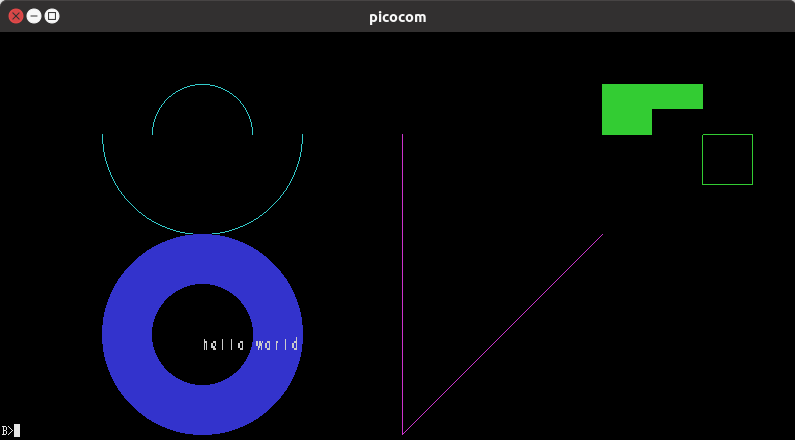
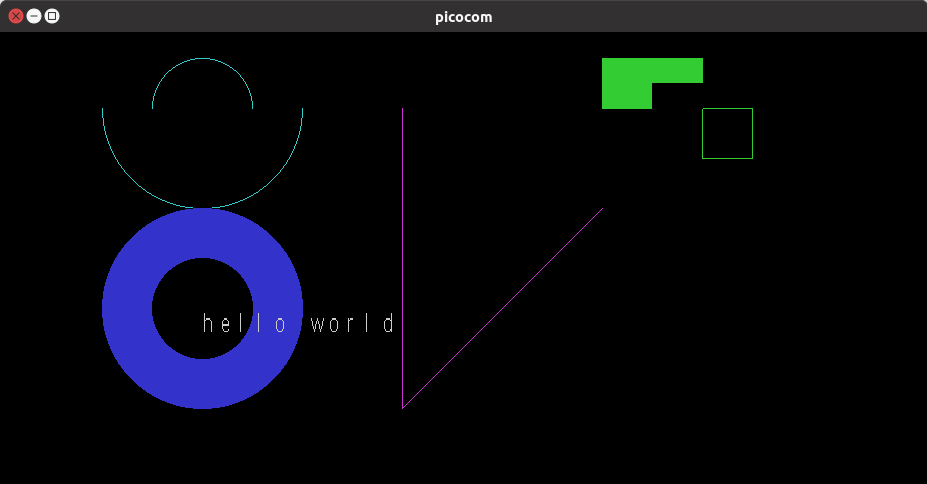
regis - increase demo text font size

diff --git a/regis/demo/regis_demo.c b/regis/demo/regis_demo.c
@@ -17,7 +17,7 @@
 // zcc +rc2014 -subtype=cpm -clib=new -v -m -O2 --list -llib/rc2014/regis regis_demo.c -o regis -create-app
 
 // Expected output (where ^ is ESC character).
-// ^P1pS(E)W(I(M))P[600,200]V[][-200,+200]V[][400,100]W(I(G))P[700,100]V(B)[+050,][,+050][-050,](E)V(W(S1))(B)[-100,][,-050][+100,](E)V(W(S1,E))(B)[-050,][,-025][+050,](E)W(I(C))P[200,100]C(A-180)[+100]C(A+180)[+050]W(I(B))P[200,300]C(W(S1))[+100]C(W(S1,E))[+050]W(I(W))T(S01)"hello world"^\
+// ^P1pS(E)W(I(M))P[600,200]V[][-200,+200]V[][400,100]W(I(G))P[700,100]V(B)[+050,][,+050][-050,](E)V(W(S1))(B)[-100,][,-050][+100,](E)V(W(S1,E))(B)[-050,][,-025][+050,](E)W(I(C))P[200,100]C(A-180)[+100]C(A+180)[+050]W(I(B))P[200,300]C(W(S1))[+100]C(W(S1,E))[+050]W(I(W))T(S02)"hello world"^\
 
 
 window_t mywindow;
@@ -54,7 +54,7 @@ int main(void)
 
     draw_intensity( &mywindow, W);
 
-    draw_text( &mywindow, "hello world", 1);
+    draw_text( &mywindow, "hello world", 2);
 
     window_write( &mywindow );
     window_close( &mywindow );
